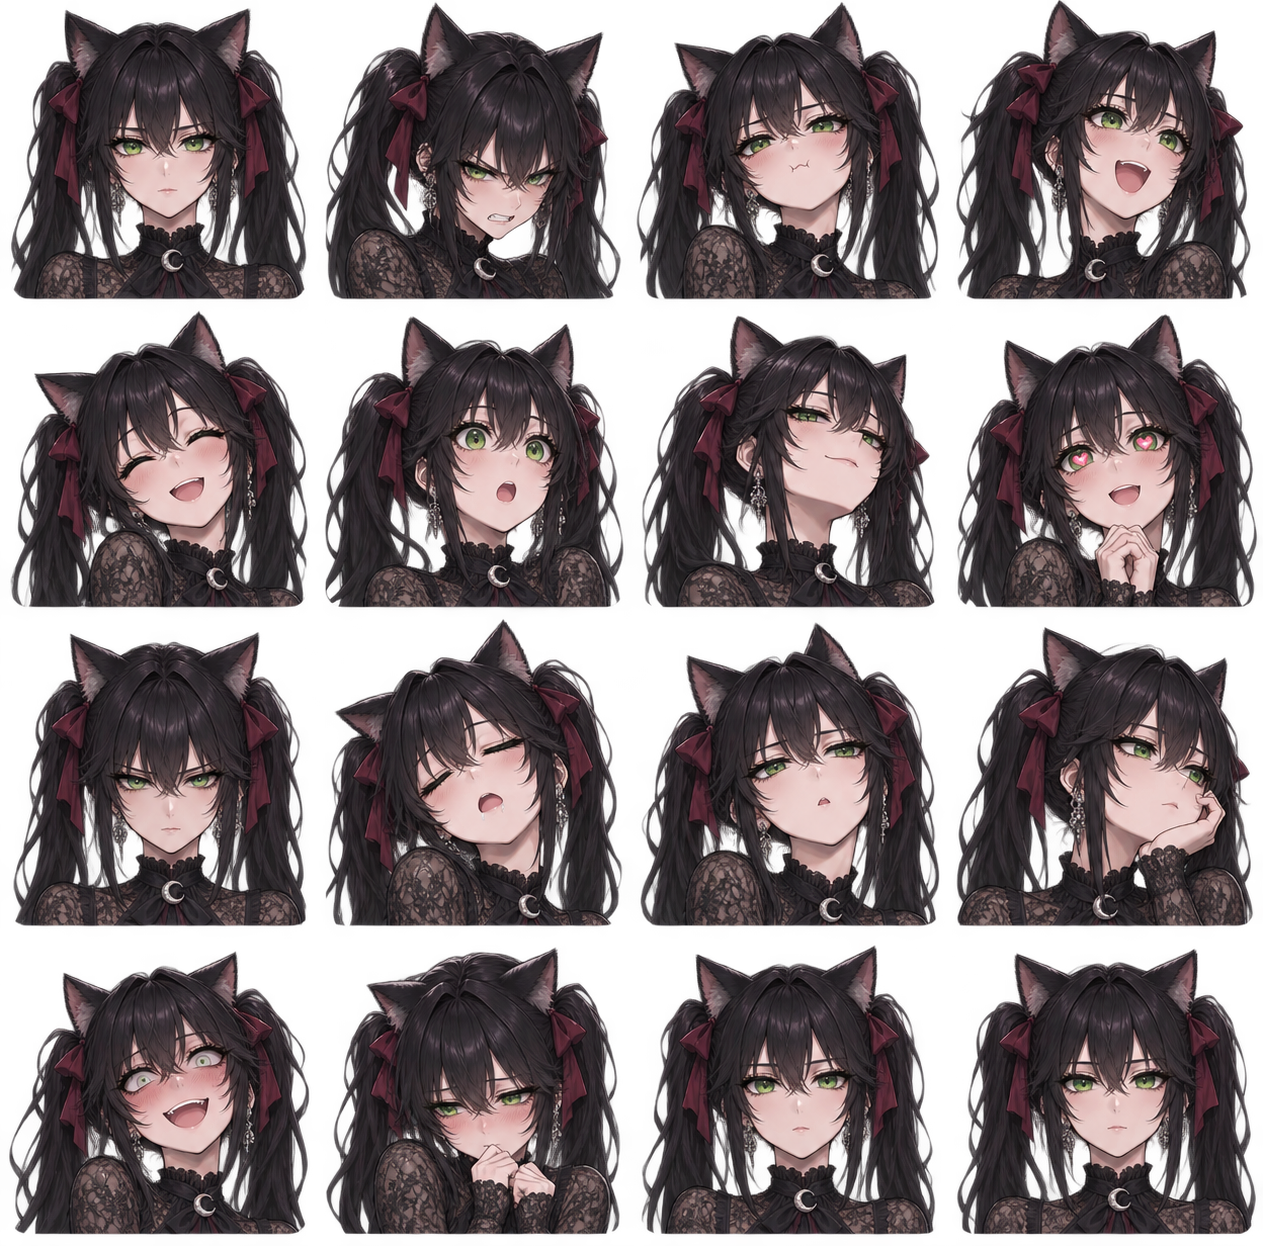
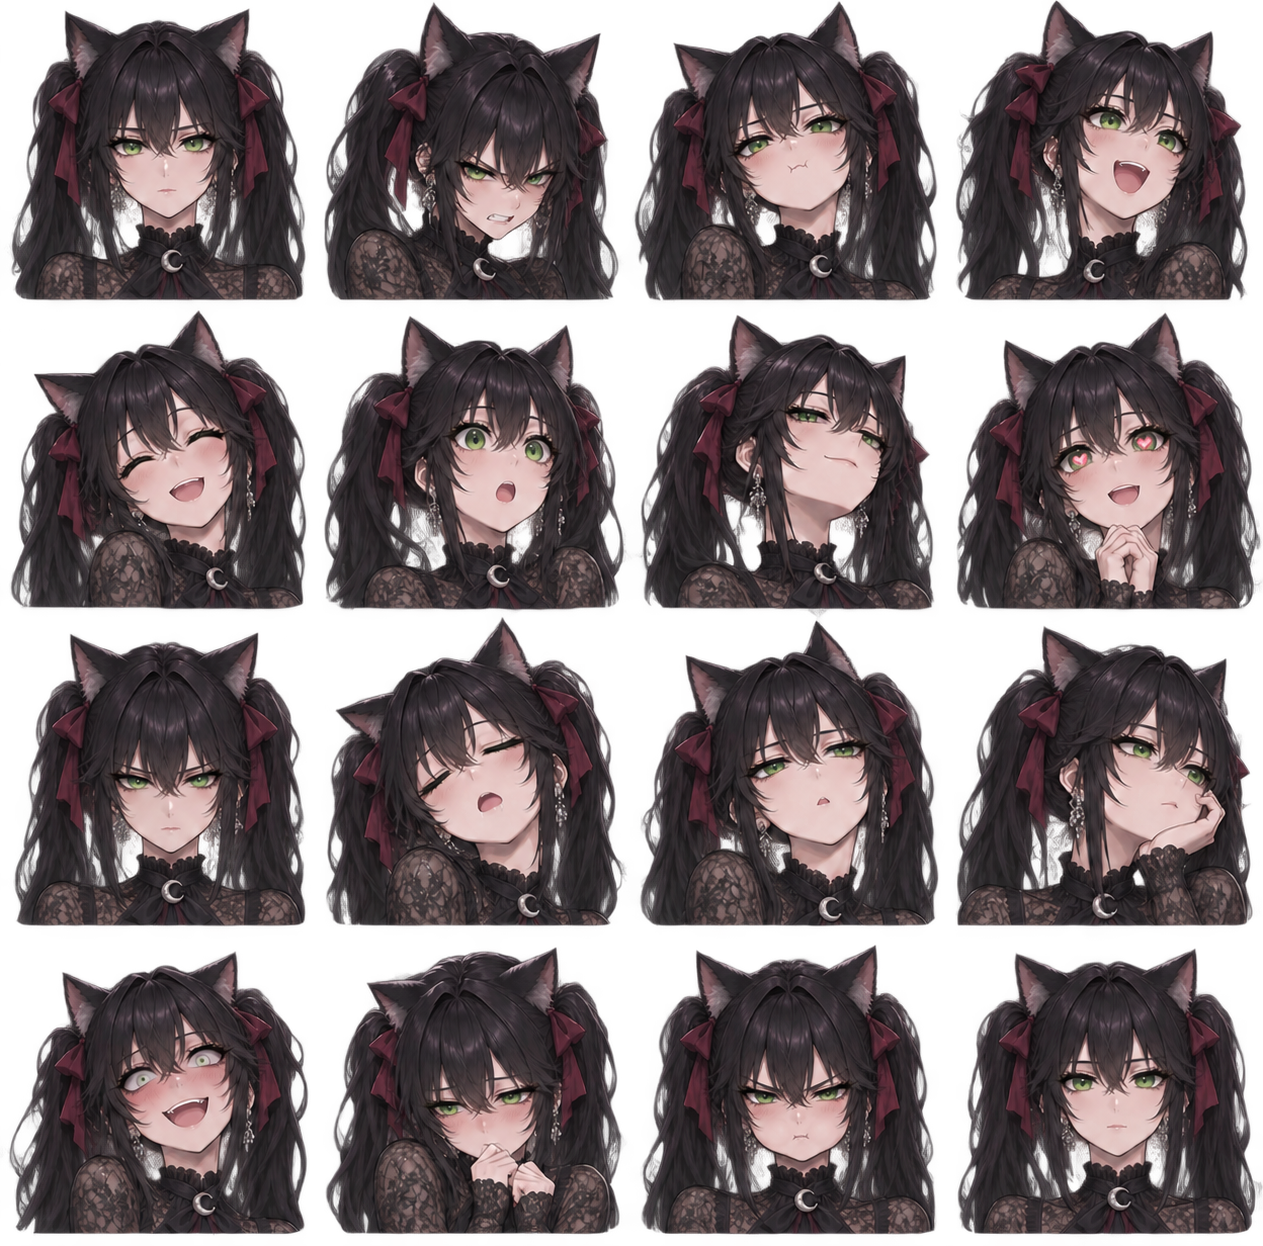
feat: Separate cat-smug and pouting expressions

diff --git a/src/app/scenery/catgirl.rs b/src/app/scenery/catgirl.rs
@@ -13,6 +13,7 @@ enum Expression {
     Neutral,
     Angry,
     Pout,
+    CatSmug,
     Excited,
     Happy,
     Surprised,
@@ -27,9 +28,10 @@ enum Expression {
 }
 
 impl Expression {
-    const REACTIONS: [Self; 13] = [
+    const REACTIONS: [Self; 14] = [
         Self::Angry,
         Self::Pout,
+        Self::CatSmug,
         Self::Excited,
         Self::Happy,
         Self::Surprised,
@@ -74,7 +76,8 @@ impl Expression {
         match self {
             Self::Neutral => 0,
             Self::Angry => 1,
-            Self::Pout => 2,
+            Self::Pout => 14,
+            Self::CatSmug => 2,
             Self::Excited => 3,
             Self::Happy => 4,
             Self::Surprised => 5,
@@ -204,7 +207,11 @@ fn portrait_texture(
                 Source::Portraits
             };
             let image = source_image(ctx, source)?;
-            let cell = expression.cell();
+            let cell = if full_body && expression == Expression::Pout {
+                2
+            } else {
+                expression.cell()
+            };
             let width = image.width() / 4;
             let height = image.height() / 4;
             let crop = image
@@ -290,7 +297,7 @@ mod tests {
             .into_iter()
             .chain([Expression::Neutral])
         {
-            let next: Vec<_> = (0..13).map(|seed| current.next(seed)).collect();
+            let next: Vec<_> = (0..14).map(|seed| current.next(seed)).collect();
             assert!(!next.contains(&current));
             assert!(!next.contains(&Expression::Neutral));
             assert!(Expression::REACTIONS

diff --git a/SPECIFICATION.md b/SPECIFICATION.md
@@ -35,7 +35,7 @@ Provide:
 - A job list with job name, schedule enabled/disabled state, running/queued indication, and latest result. Its divider remains at the selected width after dragging and is restored after restarting.
 - An editor for the selected job. Show a green status dot beside enabled job names in both the list and the detail heading, including while waiting for the next check. Hide it when automatic backups are disabled; an inactive job running a manual check does not show the dot.
 - A global theme selector: **System**, **Light**, **Dark**. Default: **System**. Persist the selection.
-- A look selector in the settings view: **Retro** (pixel fonts and arcade colors), **Dark Fantasy** (serif capitals, engraved icons, forged plate buttons, crimson on black, drifting embers), **Modern** (neutral Zinc surfaces, blue accents, sans-serif typography, rounded controls and simple line icons; job counts, ZIP icons, last-backup readouts and job icons use neutral text colors) and **Frutiger Aero** (glossy icons, clear glass and gel buttons on frosted glass panes, dialogs, menus and tooltips that blur what lies behind them (with OpenGL 3; tinted see-through glass otherwise), with bevelled edges, reflections and shimmer, over an animated scene: sunburst and lens flare or stars and aurora by night, clouds, a spinning glass globe, gulls, schooling fish in five shapes and two colors each that chase and gulp bubbles, breathe bubbles and flee the pointer (pufferfish blow up), falling leaves, hills, a rolling sea and rising bubbles that pop under the pointer; clicks send a refracting shockwave (plain ripples without OpenGL 3) and the pointer trails bubbles), and **Midnight Neko** (opaque matte charcoal/crimson panels in Dark mode and pale-stone panels in Light mode, silver lace-like corner filigree, thorn-and-diamond borders, crescent motifs, subtly patterned panels, flat controls, serif headings, and a matching pixel-art black-haired catgirl face icon. One adult black-haired, green-eyed gothic catgirl uses her upper-body avatar only in the spacious welcome view; use close-up portraits in the sidebar when space permits. Use fresh transparent, equal-cell sprite atlases with consistent character framing. Jobs use only expression portraits; welcome-screen reactions always remain upper-body. Do not draw a portrait frame or backdrop. Clicking her selects one of thirteen illustrated reactions/poses without repeating the previous selection: angry, `:3` pout, excited, happy, surprised, superior, heart eyes, cold stare, sleepy with drool, bored, cheek resting on a hand with a sideways glance, wide-eyed yandere with tiny pupils, or shy. Each lasts four seconds before returning to the neutral default. Preserve the detailed illustrated eyes; no cursor-tracking overlays. Glossy red hearts pop under the pointer and a sparse fading heart-and-stardust trail has small sparkle bursts on clicks. Decorations do not intercept input; only the companion portrait accepts clicks). Default: **Retro**. Each look has a light and a dark variant that follows the theme selector. Persist the selection; an unknown saved look falls back to the default.
+- A look selector in the settings view: **Retro** (pixel fonts and arcade colors), **Dark Fantasy** (serif capitals, engraved icons, forged plate buttons, crimson on black, drifting embers), **Modern** (neutral Zinc surfaces, blue accents, sans-serif typography, rounded controls and simple line icons; job counts, ZIP icons, last-backup readouts and job icons use neutral text colors) and **Frutiger Aero** (glossy icons, clear glass and gel buttons on frosted glass panes, dialogs, menus and tooltips that blur what lies behind them (with OpenGL 3; tinted see-through glass otherwise), with bevelled edges, reflections and shimmer, over an animated scene: sunburst and lens flare or stars and aurora by night, clouds, a spinning glass globe, gulls, schooling fish in five shapes and two colors each that chase and gulp bubbles, breathe bubbles and flee the pointer (pufferfish blow up), falling leaves, hills, a rolling sea and rising bubbles that pop under the pointer; clicks send a refracting shockwave (plain ripples without OpenGL 3) and the pointer trails bubbles), and **Midnight Neko** (opaque matte charcoal/crimson panels in Dark mode and pale-stone panels in Light mode, silver lace-like corner filigree, thorn-and-diamond borders, crescent motifs, subtly patterned panels, flat controls, serif headings, and a matching pixel-art black-haired catgirl face icon. One adult black-haired, green-eyed gothic catgirl uses her upper-body avatar only in the spacious welcome view; use close-up portraits in the sidebar when space permits. Use fresh transparent, equal-cell sprite atlases with consistent character framing. Jobs use only expression portraits; welcome-screen reactions always remain upper-body. Do not draw a portrait frame or backdrop. Clicking her selects one of fourteen illustrated reactions/poses without repeating the previous selection: angry, annoyed puffed-cheek pout, cat-smug `:3`, excited, happy, surprised, superior, heart eyes, cold stare, sleepy with drool, bored, cheek resting on a hand with a sideways glance, wide-eyed yandere with tiny pupils, or shy. Each lasts four seconds before returning to the neutral default. Preserve the detailed illustrated eyes; no cursor-tracking overlays. Glossy red hearts pop under the pointer and a sparse fading heart-and-stardust trail has small sparkle bursts on clicks. Decorations do not intercept input; only the companion portrait accepts clicks). Default: **Retro**. Each look has a light and a dark variant that follows the theme selector. Persist the selection; an unknown saved look falls back to the default.
 - A status area showing current activity, progress, and settings-save errors.
 - An empty state explaining how to create the first job.
 

diff --git a/assets/themes/midnight-neko/pout-edit-prompt.md b/assets/themes/midnight-neko/pout-edit-prompt.md
@@ -1,0 +1,3 @@
+# Built-in imagegen pout correction
+
+Edit this exact transparent 4x4 portrait sprite atlas. Preserve all existing cells, identity, detailed green eyes, natural proportions, cell positions and transparency. ONLY change cell row4 column3 (currently neutral duplicate): replace it with an unmistakable annoyed POUT: puffed cheeks, brows drawn inward, small protruding downturned pursed lips, NO smile, NO smug expression, NO :3 cat mouth. Keep row1 column3 EXACTLY unchanged: its current smug :3 expression will be used separately. Preserve every other cell unchanged. No frames, grid lines, background, halo or scythe. Same adult black-haired green-eyed gothic catgirl and same scale. Keep the regular4x4 atlas, transparent padding, high illustration quality.
